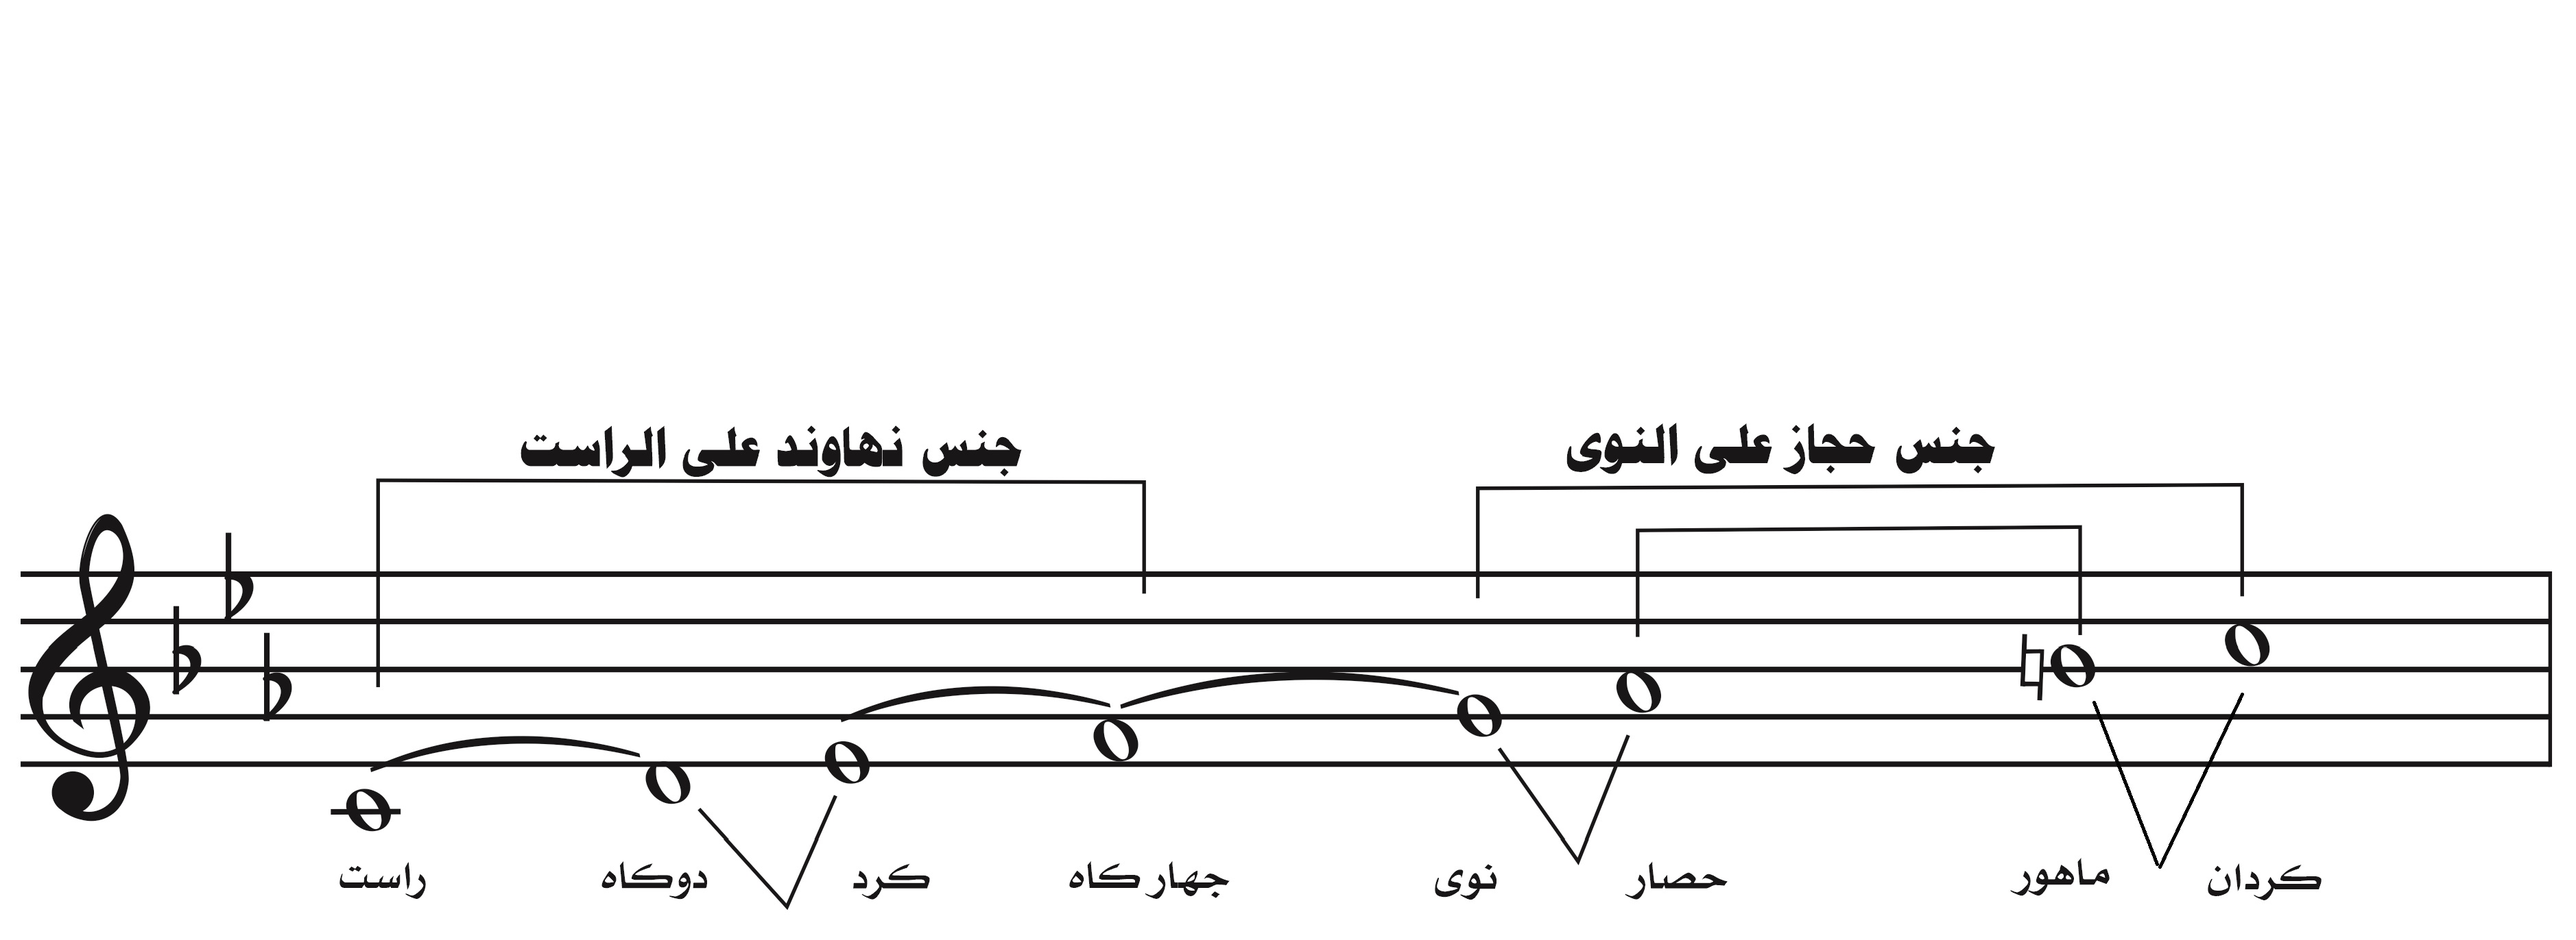
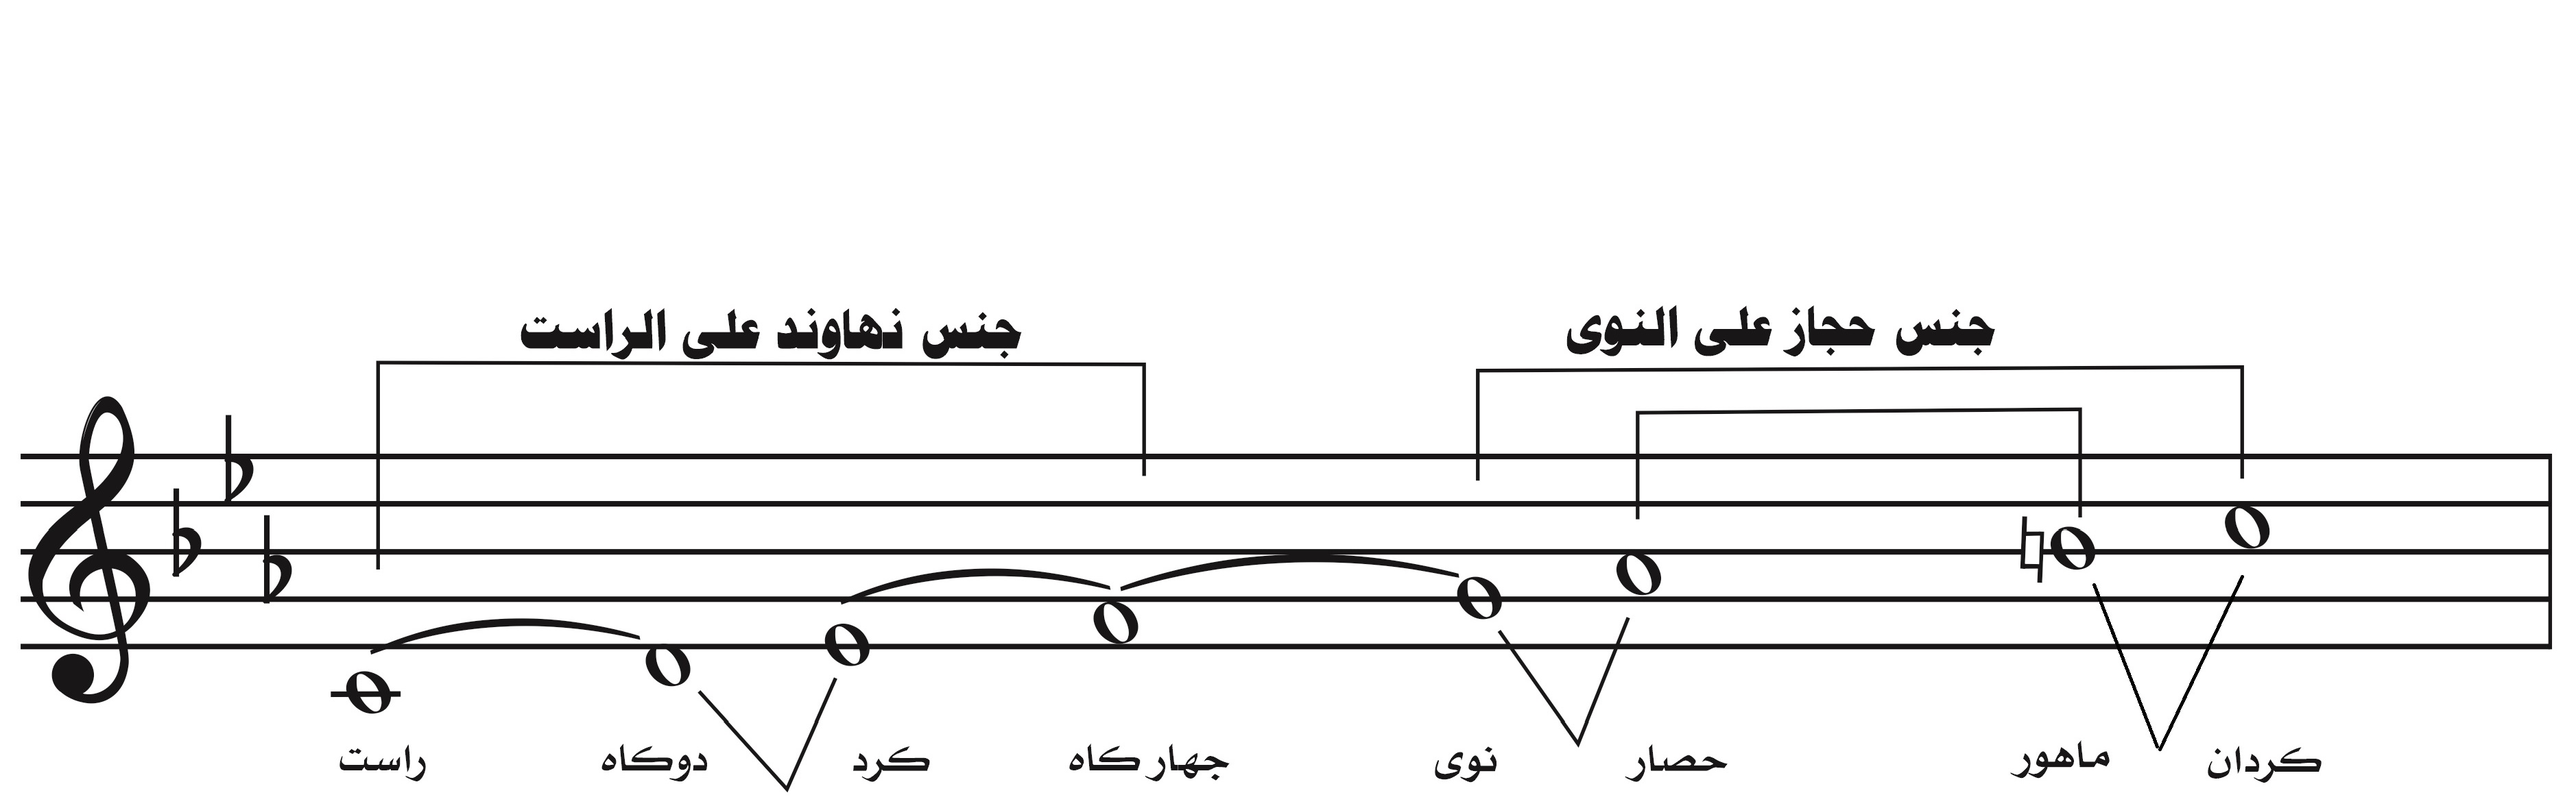
عمل تحديث للصور تلقائي

diff --git a/sw.js b/sw.js
@@ -199,8 +199,21 @@ self.addEventListener('fetch', (event) => {
     return;
   }
 
-  // باقي الملفات (الصور، عينات العود الأساسية، المانيفست، الأيقونات): كاش أولاً
-  // — هذي ملفات ثابتة وما تتغير كثير، فسرعة التحميل من الكاش أهم من التحديث الفوري
+  // الصور (أيقونات، صور دليل المقامات، صور السلالم الغربية، إلخ): "الشبكة أولاً" بدل الكاش أولاً
+  // — بنفس مبدأ index.html فوق بالضبط. سبب التغيير: أي صورة نعدّلها بالمستقبل (مثلاً تصحيح خطأ
+  // بصورة دليل مقام) كانت تضل معلّقة على النسخة القديمة المخزَّنة أبداً عند أي مستخدم زار الموقع
+  // قبل، حتى لو رفعنا نسخة جديدة بنفس الاسم/المسار على GitHub — لأن كاش-أولاً يمنع أي طلب شبكة
+  // أصلاً طول ما فيه نسخة مخزّنة، بغض النظر عن قِدمها. الحل: نحاول نجيب أحدث نسخة من الإنترنت
+  // أول بكل زيارة (ونحدّث الكاش تلقائياً بنفس الوقت)، ولو ما فيه نت نرجع فوراً للنسخة المخزّنة
+  // آخر مرة — نتيجة النهاية: تحديثات أي صورة تنعكس تلقائياً بدون أي حاجة نتذكر نرفع رقم
+  // CACHE_VERSION يدوياً كل مرة نغيّر فيها صورة
+  if (/\.(png|jpe?g|webp|gif|svg)$/i.test(url.pathname)) {
+    event.respondWith(networkFirstImages(req));
+    return;
+  }
+
+  // باقي الملفات (عينات العود الأساسية wav، المانيفست): كاش أولاً — هذي ملفات ثابتة فعلاً
+  // وما تتغيّر أبداً بعد الإطلاق، فسرعة التحميل من الكاش أهم من التحديث الفوري
   event.respondWith(cacheFirstPrecache(req));
 });
 
@@ -216,6 +229,27 @@ async function networkFirstShell(request) {
     return response;
   } catch (err) {
     const cached = await caches.match(request) || await caches.match('./index.html');
+    if (cached) return cached;
+    return new Response('غير متاح بدون اتصال بالإنترنت', {
+      status: 503,
+      statusText: 'Offline'
+    });
+  }
+}
+
+// شبكة-أولاً للصور: يضمن أي تعديل مستقبلي على أي صورة (دليل مقام، أيقونة، إلخ) ينعكس فوراً
+// لأي زائر متصل بالنت، مع رجوع تلقائي للنسخة المخزّنة لو قطع النت — نفس منطق networkFirstShell
+// فوق بالضبط، بس للصور
+async function networkFirstImages(request) {
+  try {
+    const response = await fetch(request);
+    if (response && response.status === 200) {
+      const cache = await caches.open(PRECACHE_NAME);
+      cache.put(request, response.clone());
+    }
+    return response;
+  } catch (err) {
+    const cached = await caches.match(request);
     if (cached) return cached;
     return new Response('غير متاح بدون اتصال بالإنترنت', {
       status: 503,
